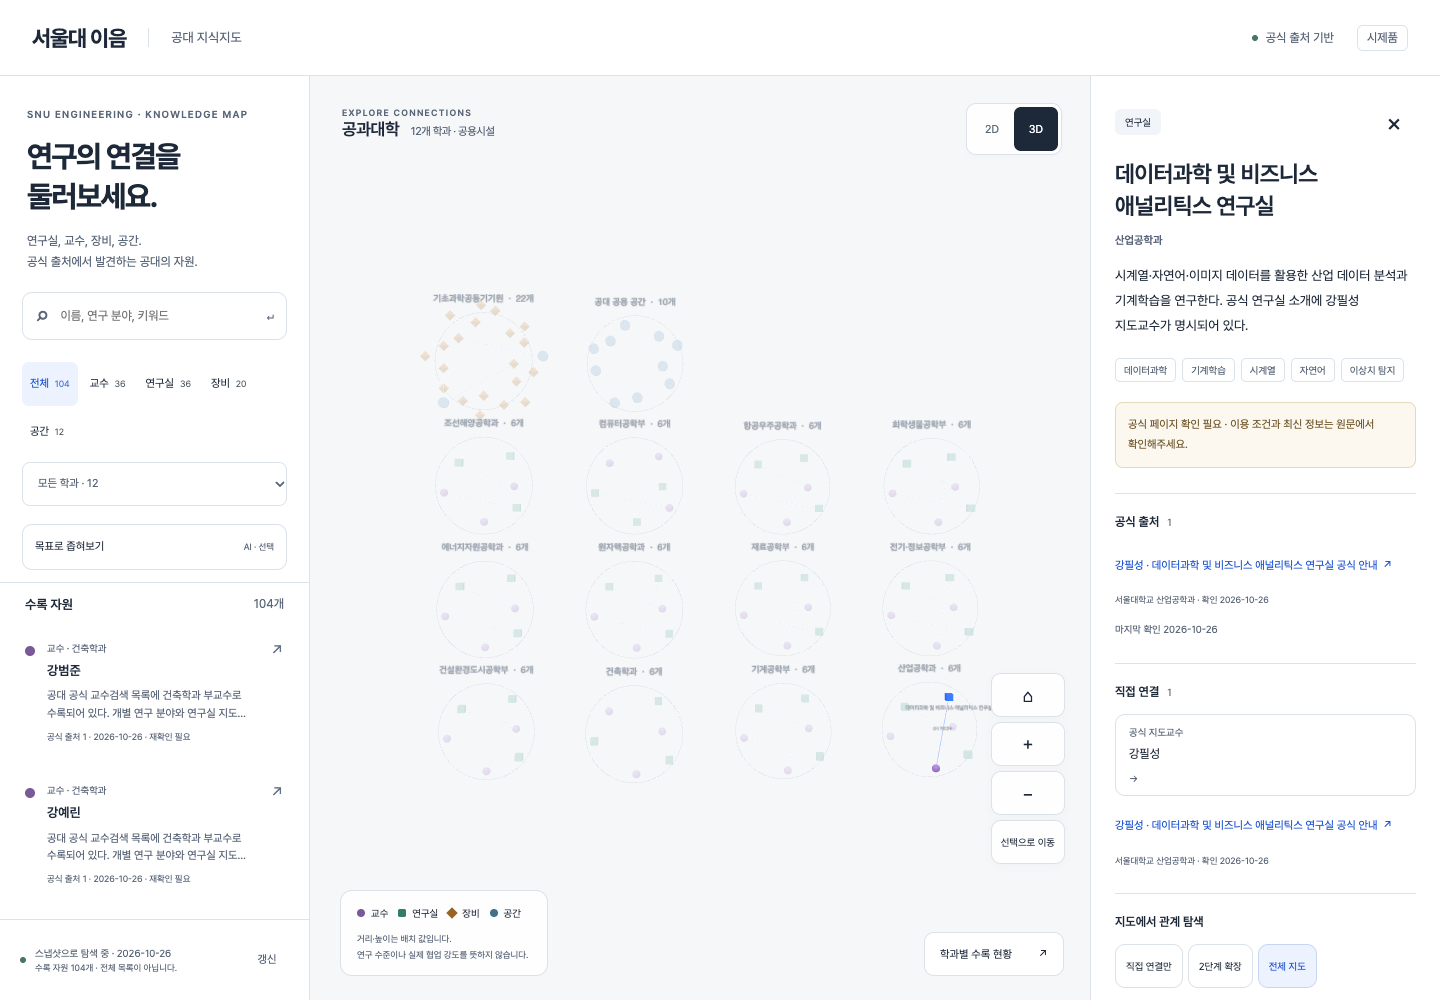
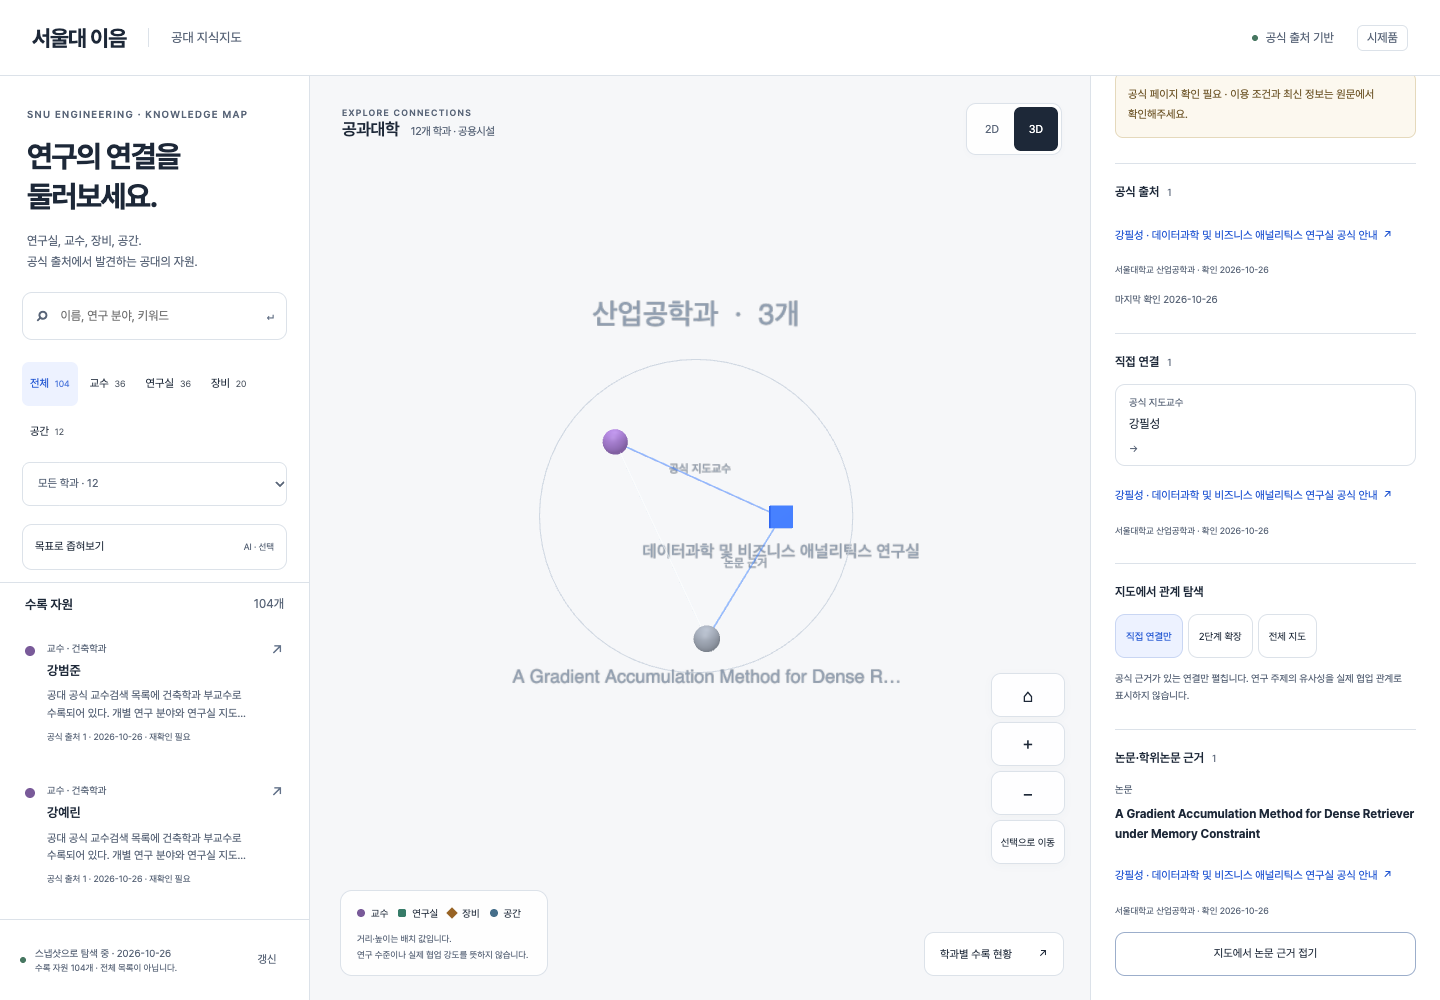
fix: focus relationship groups and declutter selected map labels (#42)
Closes #42

diff --git a/apps/web/src/Map3D.tsx b/apps/web/src/Map3D.tsx
@@ -4,7 +4,10 @@ import { BoxGeometry, CanvasTexture, CylinderGeometry, DoubleSide, Group, Mesh, 
 import { colors, endpointId, escapeHtml, related, type DisplayNode, type DisplayEdge, type ViewProps } from './map-model';
 function label(text: string) {
   const canvas = document.createElement('canvas'); canvas.width = 1024; canvas.height = 100;
-  const ctx = canvas.getContext('2d')!; ctx.font = '500 44px sans-serif'; ctx.fillStyle = '#46566d'; ctx.textAlign = 'center'; ctx.fillText(text, 512, 60);
+  const ctx = canvas.getContext('2d')!; ctx.font = '500 44px sans-serif'; ctx.fillStyle = '#46566d'; ctx.textAlign = 'center';
+  const characters = Array.from(text); let visible = text;
+  while (ctx.measureText(visible).width > 960 && characters.length) { characters.pop(); visible = characters.join('') + '…'; }
+  ctx.fillText(visible, 512, 60);
   const texture = new CanvasTexture(canvas); const sprite = new Sprite(new SpriteMaterial({ map: texture, transparent: true, depthWrite: false })); sprite.scale.set(320, 31.25, 1); return sprite;
 }
 export default function Map3D(p: ViewProps) {
@@ -24,8 +27,8 @@ export default function Map3D(p: ViewProps) {
         if (n.kind === 'lab') geometry = new BoxGeometry(11, 11, 11);
         if (n.kind === 'equipment') geometry = new OctahedronGeometry(8);
         if (n.kind === 'space') { geometry = new CylinderGeometry(8, 8, 4, 24); geometry.rotateX(Math.PI / 2); }
-        group.add(new Mesh(geometry, new MeshStandardMaterial({ color: emphasis ? '#2458d3' : colors[n.kind], roughness: .55, metalness: .08, transparent: true, opacity: p.selected && !neighbors.has(n.id) ? .2 : p.searching && !p.highlighted.has(n.id) ? .35 : 1 })));
-        const text = label(n.name); text.scale.multiplyScalar(.6); text.position.y = -18; text.visible = emphasis; group.add(text);
+        group.add(new Mesh(geometry, new MeshStandardMaterial({ color: emphasis ? '#2458d3' : colors[n.kind], roughness: .55, metalness: .08, transparent: true, opacity: p.selected ? (neighbors.has(n.id) ? 1 : .2) : p.searching && !p.highlighted.has(n.id) ? .35 : 1 })));
+        const text = label(n.name); text.scale.multiplyScalar(.6); text.position.y = -18; text.visible = emphasis && (!p.selected || neighbors.has(n.id)); group.add(text);
       }
       map.set(n.id, group);
     }
@@ -52,7 +55,12 @@ export default function Map3D(p: ViewProps) {
       const distance = Math.max((Math.max(...xs)-Math.min(...xs)+240)/(2*tangent*aspect), (Math.max(...ys)-Math.min(...ys)+240)/(2*tangent));
       graph.cameraPosition({x:centerX,y:centerY,z:Math.max(...p.nodes.map(n => n.fz))+distance*1.1}, {x:centerX,y:centerY,z:0}, p.reducedMotion ? 0 : 500);
     };
-    const handle = { home, zoom: (factor: number) => { const graph = ref.current; if (!graph) return; const position = graph.camera().position; graph.cameraPosition({ x: position.x / factor, y: position.y / factor, z: position.z / factor }, undefined, p.reducedMotion ? 0 : 250); }, focus: (id: string) => { const n = p.nodes.find(n => n.id === id); if (n) ref.current?.cameraPosition({ x: n.fx, y: n.fy, z: n.fz + 230 }, { x: n.fx, y: n.fy, z: n.fz }, p.reducedMotion ? 0 : 450); } };
+    const handle = { home, zoom: (factor: number) => {
+      const graph = ref.current; if (!graph) return;
+      const target = (graph.controls() as { target?: Vector3 }).target?.clone() ?? new Vector3();
+      const position = graph.camera().position.clone().sub(target).divideScalar(factor).add(target);
+      graph.cameraPosition(position, target, p.reducedMotion ? 0 : 250);
+    }, focus: (id: string) => { const n = p.nodes.find(n => n.id === id); if (n) ref.current?.cameraPosition({ x: n.fx, y: n.fy, z: n.fz + 230 }, { x: n.fx, y: n.fy, z: n.fz }, p.reducedMotion ? 0 : 450); } };
     p.onReady(handle);
     const graph = ref.current;
     if (graph) { const scene = graph.scene(); const ambient = new AmbientLight(0xffffff, 2); const light = new DirectionalLight(0xffffff, 3); light.position.set(-200, 400, 700); scene.add(ambient, light);
@@ -69,11 +77,11 @@ export default function Map3D(p: ViewProps) {
       for (const n of p.nodes) {
         if (n.kind === 'department') continue;
         const text = objects.get(n.id)?.children[1];
-        if (text) text.visible = n.id === p.selected || (p.searching && p.highlighted.has(n.id)) || camera.position.distanceTo(new Vector3(n.fx, n.fy, n.fz)) < 450;
+        if (text) text.visible = (!p.selected || neighbors.has(n.id)) && (n.id === p.selected || (p.searching && p.highlighted.has(n.id)) || camera.position.distanceTo(new Vector3(n.fx, n.fy, n.fz)) < 450);
       }
     };
     controls.addEventListener('change', update); update();
     return () => controls.removeEventListener('change', update);
-  }, [objects, p.nodes, p.selected, p.searching, p.highlighted]);
+  }, [objects, p.nodes, p.selected, p.searching, p.highlighted, neighbors]);
   return <ForceGraph3D<DisplayNode, DisplayEdge> ref={ref} graphData={graphData} width={p.width} height={p.height} backgroundColor="#f6f7f9" showNavInfo={false} nodeThreeObject={n => objects.get(n.id)!} nodeLabel={n => escapeHtml(n.name)} linkLabel={e => escapeHtml(e.label)} linkColor={e => p.selected && (endpointId(e.source) === p.selected || endpointId(e.target) === p.selected) ? '#2458d3' : '#b7c2d1'} linkOpacity={.5} linkWidth={.8} linkThreeObjectExtend linkThreeObject={e => edgeObjects.get(e.id)!} linkPositionUpdate={(object, {start, end}) => { if (object) object.position.set((start.x+end.x)/2, (start.y+end.y)/2+5, (start.z+end.z)/2); return true; }} onNodeClick={n => n.kind !== 'department' && p.onSelect(n.id)} enableNodeDrag={false} cooldownTicks={0} />;
 }

diff --git a/apps/web/src/Map.tsx b/apps/web/src/Map.tsx
@@ -9,19 +9,19 @@ class MapBoundary extends Component<{ children: ReactNode; onFailure(): void }, 
   componentDidCatch() { this.props.onFailure(); }
   render() { return this.state.failed ? <p>지도를 열 수 없습니다. 자원 목록에서 탐색해주세요.</p> : this.props.children; }
 }
-export default function Map({ graph, departments, view, selected, highlighted, searching, onSelect, onFallback }: { graph: Graph; departments: Department[]; view: '2d' | '3d'; selected?: string; highlighted: Set<string>; searching: boolean; onSelect(id: string): void; onFallback(): void }) {
+export default function Map({ graph, departments, focused, view, selected, highlighted, searching, onSelect, onFallback }: { graph: Graph; departments: Department[]; focused: boolean; view: '2d' | '3d'; selected?: string; highlighted: Set<string>; searching: boolean; onSelect(id: string): void; onFallback(): void }) {
   const container = useRef<HTMLDivElement>(null); const handle = useRef<MapHandle | null>(null);
   const [size, setSize] = useState({ width: 800, height: 600 });
   const [mobile, setMobile] = useState(() => matchMedia('(max-width:900px)').matches);
   const [reduced, setReduced] = useState(() => matchMedia('(prefers-reduced-motion: reduce)').matches);
-  const data = useMemo(() => model(graph, departments), [graph, departments]);
+  const data = useMemo(() => model(graph, departments, focused), [graph, departments, focused]);
   useEffect(() => { const observer = new ResizeObserver(([entry]) => setSize({ width: entry.contentRect.width, height: entry.contentRect.height })); if (container.current) observer.observe(container.current); return () => observer.disconnect(); }, []);
   useEffect(() => { const media = matchMedia('(prefers-reduced-motion: reduce)'); const listener = () => setReduced(media.matches); media.addEventListener('change', listener); return () => media.removeEventListener('change', listener); }, []);
   useEffect(() => { const media = matchMedia('(max-width:900px)'); const listener = () => setMobile(media.matches); media.addEventListener('change', listener); return () => media.removeEventListener('change', listener); }, []);
   const visibleHeight = mobile && selected ? Math.max(200, Math.floor(size.height * .42)) : size.height;
   const onReady = useCallback((value: MapHandle) => { handle.current = value; }, []);
   const View = view === '3d' ? ThreeD : TwoD;
-  return <div className="map-stage" ref={container} data-testid="map-stage" aria-label={`${view.toUpperCase()} 지식지도. 자원 목록에서도 같은 항목을 선택할 수 있습니다.`}>
+  return <div className="map-stage" ref={container} data-testid="map-stage" aria-label={`${view.toUpperCase()} 지식지도. 자원·근거 ${graph.nodes.length}개, 연결 ${graph.edges.length}개. 자원 목록에서도 같은 항목을 선택할 수 있습니다.`}>
     <MapBoundary key={view} onFailure={onFallback}><Suspense fallback={<div className="map-loading" role="status">관계망을 준비하고 있습니다…</div>}><View {...data} width={size.width} height={visibleHeight} focusSelection={mobile && Boolean(selected)} selected={selected} highlighted={highlighted} searching={searching} reducedMotion={reduced} onSelect={onSelect} onReady={onReady} onFailure={onFallback} /></Suspense></MapBoundary>
     <div className="map-controls" aria-label="지도 조작"><button onClick={() => handle.current?.home()} aria-label="처음 보기">⌂</button><button onClick={() => handle.current?.zoom(1.3)} aria-label="확대">＋</button><button onClick={() => handle.current?.zoom(.77)} aria-label="축소">−</button><button disabled={!selected} onClick={() => selected && handle.current?.focus(selected)}>선택으로 이동</button></div>
   </div>;

diff --git a/apps/web/src/Map2D.tsx b/apps/web/src/Map2D.tsx
@@ -26,7 +26,7 @@ export default function Map2D(p: ViewProps) {
     }
     const selected = n.id === p.selected;
     const emphasis = selected || (p.searching && p.highlighted.has(n.id));
-    ctx.globalAlpha = p.selected && !neighbors.has(n.id) ? .22 : p.searching && !p.highlighted.has(n.id) ? .35 : 1;
+    ctx.globalAlpha = p.selected ? (neighbors.has(n.id) ? 1 : .22) : p.searching && !p.highlighted.has(n.id) ? .35 : 1;
     ctx.fillStyle = emphasis ? '#2458d3' : colors[n.kind];
     ctx.beginPath();
     if (n.kind === 'lab') ctx.roundRect(x - 6, y - 6, 12, 12, 2);
@@ -35,12 +35,19 @@ export default function Map2D(p: ViewProps) {
     else ctx.arc(x, y, 6, 0, Math.PI * 2);
     ctx.fill();
     if (emphasis) { ctx.strokeStyle = '#2458d3'; ctx.lineWidth = 1.5 / scale; ctx.beginPath(); ctx.arc(x, y, 12, 0, Math.PI * 2); ctx.stroke(); }
-    if (scale > 1.05 || emphasis) { ctx.fillStyle = '#1d2838'; ctx.font = `${11 / scale}px sans-serif`; ctx.textAlign = 'center'; ctx.fillText(n.name, x, y + 18 / scale); }
+    if ((scale > 1.05 || emphasis) && (!p.selected || neighbors.has(n.id))) { ctx.fillStyle = '#1d2838'; ctx.font = `${11 / scale}px sans-serif`; ctx.textAlign = 'center'; ctx.fillText(n.name, x, y + 18 / scale); }
     ctx.restore();
   };
   return <ForceGraph2D<DisplayNode, DisplayEdge> ref={ref} graphData={graphData} width={p.width} height={p.height} backgroundColor="#f6f7f9" nodeCanvasObject={draw} nodeLabel={n => escapeHtml(n.name)} linkLabel={e => escapeHtml(e.label)} linkColor={e => p.selected && (endpointId(e.source) === p.selected || endpointId(e.target) === p.selected) ? '#2458d3' : '#cbd3df'} linkWidth={1} linkCanvasObjectMode={() => 'after'} linkCanvasObject={(edge, ctx, scale) => {
     if (!p.selected || (endpointId(edge.source) !== p.selected && endpointId(edge.target) !== p.selected) || typeof edge.source === 'string' || typeof edge.target === 'string') return;
-    ctx.save(); ctx.font = `${10 / scale}px sans-serif`; ctx.fillStyle = '#2458d3'; ctx.textAlign = 'center';
-    ctx.fillText(edge.label, ((edge.source.x ?? 0) + (edge.target.x ?? 0)) / 2, ((edge.source.y ?? 0) + (edge.target.y ?? 0)) / 2 - 6 / scale); ctx.restore();
+    const sx = edge.source.x ?? 0, sy = edge.source.y ?? 0, tx = edge.target.x ?? 0, ty = edge.target.y ?? 0;
+    const length = Math.hypot(tx - sx, ty - sy) || 1;
+    let nx = -(ty - sy) / length, ny = (tx - sx) / length;
+    if (ny > 0) { nx = -nx; ny = -ny; }
+    const x = (sx + tx) / 2 + nx * 24 / scale, y = (sy + ty) / 2 + ny * 24 / scale;
+    ctx.save(); ctx.font = `${10 / scale}px sans-serif`; ctx.textAlign = 'center'; ctx.textBaseline = 'middle';
+    const width = ctx.measureText(edge.label).width;
+    ctx.fillStyle = '#f6f7f9'; ctx.fillRect(x - width / 2 - 3 / scale, y - 7 / scale, width + 6 / scale, 14 / scale);
+    ctx.fillStyle = '#2458d3'; ctx.fillText(edge.label, x, y); ctx.restore();
   }} onNodeClick={n => n.kind !== 'department' && p.onSelect(n.id)} enableNodeDrag={false} cooldownTicks={0} onEngineStop={() => {}} />;
 }

diff --git a/apps/web/src/App.tsx b/apps/web/src/App.tsx
@@ -67,7 +67,7 @@ export default function App() {
         <div className="data-note"><span className="live-dot" /><span>{data.source === 'snapshot' ? '스냅샷으로 탐색 중' : 'API 연결됨'} · {snapshot.manifest.generatedAt.slice(0, 10)}<small>수록 자원 {snapshot.resources.length}개 · 전체 목록이 아닙니다.</small></span><button className="text-button" onClick={() => refetch()}>갱신</button></div>
       </aside>
       <section className="map-panel" aria-label="전체 지식지도"><div className="map-heading"><div><span className="eyebrow">EXPLORE CONNECTIONS</span><h2>공과대학 <span>{departments.filter(d => d.groupType === 'department').length}개 학과{departments.some(d => d.groupType === 'shared') ? ' · 공용시설' : ''}</span></h2></div><div className="view-switch" aria-label="지도 뷰"><button aria-pressed={state.view === '2d'} onClick={() => state.setView('2d')}>2D</button><button aria-pressed={state.view === '3d'} onClick={() => state.setView('3d')}>3D</button></div></div>
-        <Map graph={graphData} departments={departments} view={state.view} selected={state.selected} highlighted={highlighted} searching={Boolean(state.q || aiResult)} onSelect={id => { if (snapshot.resources.some(r => r.id === id)) select(id); }} onFallback={state.fallback} />
+        <Map graph={graphData} departments={departments} focused={state.focusOnly} view={state.view} selected={state.selected} highlighted={highlighted} searching={Boolean(state.q || aiResult)} onSelect={id => { if (snapshot.resources.some(r => r.id === id)) select(id); }} onFallback={state.fallback} />
         {(graphData.hiddenNodes > 0 || graphData.hiddenEdges > 0) && <p className="graph-limit" role="status">노드 {graphData.hiddenNodes}개·연결 {graphData.hiddenEdges}개가 더 있습니다. 학과·유형 필터나 자원 목록에서 이어서 탐색해주세요.</p>}
         <div className="map-footer"><div className="legend">{Object.entries(kindLabels).map(([kind, name]) => <span key={kind}><i className={`kind-mark ${kind}`} />{name}</span>)}<p>거리·높이는 배치 값입니다.<br />연구 수준이나 실제 협업 강도를 뜻하지 않습니다.</p></div><details className="coverage"><summary>학과별 수록 현황 <span>↗</span></summary><div className="coverage-content"><p>대표 표본입니다. 전수 수집이 아닙니다.</p>{[...counts.departments, ...counts.sharedGroups].map(d => <div key={d.id}><strong>{d.name}</strong><span>교수 {d.counts.researcher} · 연구실 {d.counts.lab}<br />장비 {d.counts.equipment} · 공간 {d.counts.space}</span><small>{d.lastVerifiedAt?.slice(0, 10) || '수록 대기'}</small></div>)}</div></details></div>
         <div className="status-notice" role="status">{state.notice || (state.selected && !resource ? '이 배치에 없는 자원입니다. 목록에서 다른 자원을 선택해주세요.' : '')}</div>

diff --git a/apps/web/e2e/college.spec.ts b/apps/web/e2e/college.spec.ts
@@ -16,6 +16,7 @@ test('explores official equipment and its installation room in the full college 
   await expect(page.locator('.detail-panel a').first()).toHaveAttribute('href', 'https://irf.snu.ac.kr/possessed_device/possessed_device.php?idx=105');
   await page.getByRole('button', { name: '3D', exact: true }).click();
   await page.getByRole('button', { name: '2단계 확장', exact: true }).click();
+  await expect(page.getByTestId('map-stage')).toHaveAttribute('aria-label', /자원·근거 3개, 연결 2개/);
   await expect(page).toHaveURL(/view=3d.*selected=eq-irf-105/);
   await page.locator('.related-list button').filter({ hasText: '139-1동 B112호' }).click();
   await expect(page.getByRole('heading', { name: '기초과학공동기기원 139-1동 B112호', exact: true })).toBeVisible();
@@ -30,6 +31,7 @@ test('keeps paper evidence separate from resources and preserves its expansion a
   await page.getByRole('button', { name: '지도에 논문 근거 펼치기', exact: true }).click();
   await page.getByRole('button', { name: '3D', exact: true }).click();
   await expect(page.getByRole('button', { name: '지도에서 논문 근거 접기', exact: true })).toHaveAttribute('aria-pressed', 'true');
+  await expect(page.getByTestId('map-stage')).toHaveAttribute('aria-label', /3D.*자원·근거 3개, 연결 3개/);
   await expect(page.locator('.resource-card')).toHaveCount(6);
   await expect(page).toHaveURL(/selected=lab-industrial-dsba/);
 });

diff --git a/apps/web/src/map-model.ts b/apps/web/src/map-model.ts
@@ -6,11 +6,12 @@ export type ViewProps = { nodes: DisplayNode[]; links: DisplayEdge[]; width: num
 export const colors: Record<DisplayNode['kind'], string> = { department: '#8d98a8', researcher: '#795a99', lab: '#367b68', equipment: '#986324', space: '#456e8a', paper: '#757b85', thesis: '#757b85' };
 export const endpointId = (value: string | DisplayNode) => typeof value === 'string' ? value : value.id;
 export const escapeHtml = (text: string) => text.replace(/[&<>"']/g, character => ({ '&': '&amp;', '<': '&lt;', '>': '&gt;', '"': '&quot;', "'": '&#39;' })[character]!);
-export function model(data: Graph, departments: Department[]) {
+export function model(data: Graph, departments: Department[], focused = false) {
   const nodes: DisplayNode[] = [];
   for (const [i, d] of departments.entries()) {
     const x = (i % 4 - 1.5) * 230, y = (Math.floor(i / 4) - 1) * 190, z = Math.sin(i * 1.7) * 20;
     const resources = data.nodes.filter(n => n.departmentId === d.id);
+    if (focused && !resources.length) continue;
     nodes.push({ id: `__group__:${d.id}`, name: d.name, departmentId: d.id, kind: 'department', count: resources.length, fx: x, fy: y, fz: z });
     for (const [j, r] of resources.entries()) {
       const angle = j * 2.399963;

diff --git a/apps/web/src/map-model.test.ts b/apps/web/src/map-model.test.ts
@@ -1,0 +1,16 @@
+import { expect, it } from 'vitest';
+import draft from '../../../data/college-draft.json';
+import { graph, parseSnapshot } from '@ieum/catalog';
+import { model } from './map-model.ts';
+
+it('removes empty group anchors from a relationship view while retaining the department anchor', () => {
+  const snapshot = parseSnapshot(draft), filters = { q: '', kinds: [], departmentIds: [] };
+  const whole = model(graph(snapshot, filters), snapshot.departments);
+  const focused = model(graph(snapshot, filters, { focus: 'eq-irf-105', depth: 2 }), snapshot.departments, true);
+  expect(whole.nodes.filter(n => n.kind === 'department')).toHaveLength(14);
+  expect(focused.nodes.filter(n => n.kind === 'department').map(n => n.departmentId)).toEqual(['shared-irf']);
+  expect(focused.nodes.filter(n => n.kind !== 'department')).toHaveLength(3);
+  expect(focused.links).toHaveLength(2);
+  const anchor = focused.nodes.find(n => n.kind === 'department')!;
+  expect([anchor.fx, anchor.fy]).toEqual(whole.nodes.filter(n => n.kind === 'department').filter(n => n.departmentId === 'shared-irf').map(n => [n.fx, n.fy])[0]);
+});

diff --git a/review/VALIDATION.md b/review/VALIDATION.md
@@ -14,7 +14,7 @@
 | --- | --- |
 | 새 작업공간 `npm ci` | 성공, 감사 결과 알려진 취약점 0 |
 | `npm run check` | TypeScript 통과 |
-| `npm test` | 48개 단위·API 검사 통과 |
+| `npm test` | 49개 단위·API 검사 통과 |
 | 실제 PostgreSQL `npm run test:db` | 7개 통합 검사 통과 |
 | Chrome `npm run test:e2e` | 7개 브라우저 흐름 통과 |
 | `npm run build` | Vite production 빌드 성공 |
@@ -26,7 +26,7 @@
 | 공용 패치 | 반영 전 apply check, 반영 후 reverse check 성공 |
 | 출시 게이트 | 수록 수량을 충족한 통합 초안도 사람 승인·실사용자/운영 검증 미완료로 실패 |
 
-GitHub Actions의 [verify 실행](https://github.com/sesepark/snu-ieum/actions/runs/40309901045)에서도 타입·단위 47개·PostgreSQL 7개·브라우저 5개·빌드가 성공했다. 이후 브라우저 다운로드가 간헐적으로 8분 제한에 도달한 실행을 확인해, Ubuntu 24.04의 사전 설치 Chrome으로 변경했다. 전체 job 20분 제한을 유지하며 별도 브라우저 다운로드는 하지 않는다.
+GitHub Actions의 [verify 실행](https://github.com/sesepark/snu-ieum/actions/runs/40317701289)에서는 전체 카탈로그 통합의 타입·단위 48개·PostgreSQL 7개·브라우저 7개·빌드가 성공했다. 이후 선택 관계·라벨 수정은 루트의 단위 49개와 전체 브라우저 7개를 통과했고, 마지막 표시 보완 후 해당 전체 데이터 흐름 2개를 다시 확인했다. 이후 브라우저 다운로드가 간헐적으로 8분 제한에 도달한 실행을 확인해, Ubuntu 24.04의 사전 설치 Chrome으로 변경했다. 전체 job 20분 제한을 유지하며 별도 브라우저 다운로드는 하지 않는다.
 
 브라우저는 설치된 Chrome을 `PLAYWRIGHT_CHANNEL=chrome`으로 사용했다. CI도 사전 설치 Chrome을 사용한다. iab가 제공되지 않아 Chrome으로 화면을 확인했다.
 
@@ -76,3 +76,5 @@ CSV 반입 파서는 알려진 prototype replacement 문제가 수정된 csv-par
 실제 출시의 후속 작업은 [공식 수집 정책 #27](https://github.com/sesepark/snu-ieum/issues/27), [무료 계정 #28](https://github.com/sesepark/snu-ieum/issues/28), [집 서버·복구 #29](https://github.com/sesepark/snu-ieum/issues/29), [사용자·검색 평가 #30](https://github.com/sesepark/snu-ieum/issues/30)에 분리했다.
 
 소스별 selector가 실패해도 개인정보와 비밀 필드를 제외한 허용 Raw를 먼저 기록하고 원문 content SHA-256을 별도 추적한다. 실패한 변환을 새 네트워크 수집 없이 재처리할 근거를 보관한다.
+
+104개 실데이터의 시각 검수에서 발견한 모바일 라벨 겹침과 관계 보기의 빈 학과 군집을 수정했다. 2D/3D 모두 선택 자원·직접 연결의 라벨을 남기고, 긴 3D 이름은 말줄임으로 잘림을 방지한다. 선택 관계 보기에는 실제 노드가 있는 군집만 남기며 학과 기준 위치를 유지한다. 2D 관계 이름을 선 옆으로 옮겼고 3D 확대·축소는 현재 보고 있는 지점을 중심으로 한다. 자원·근거와 연결 수는 지도 접근성 안내에 포함한다.
